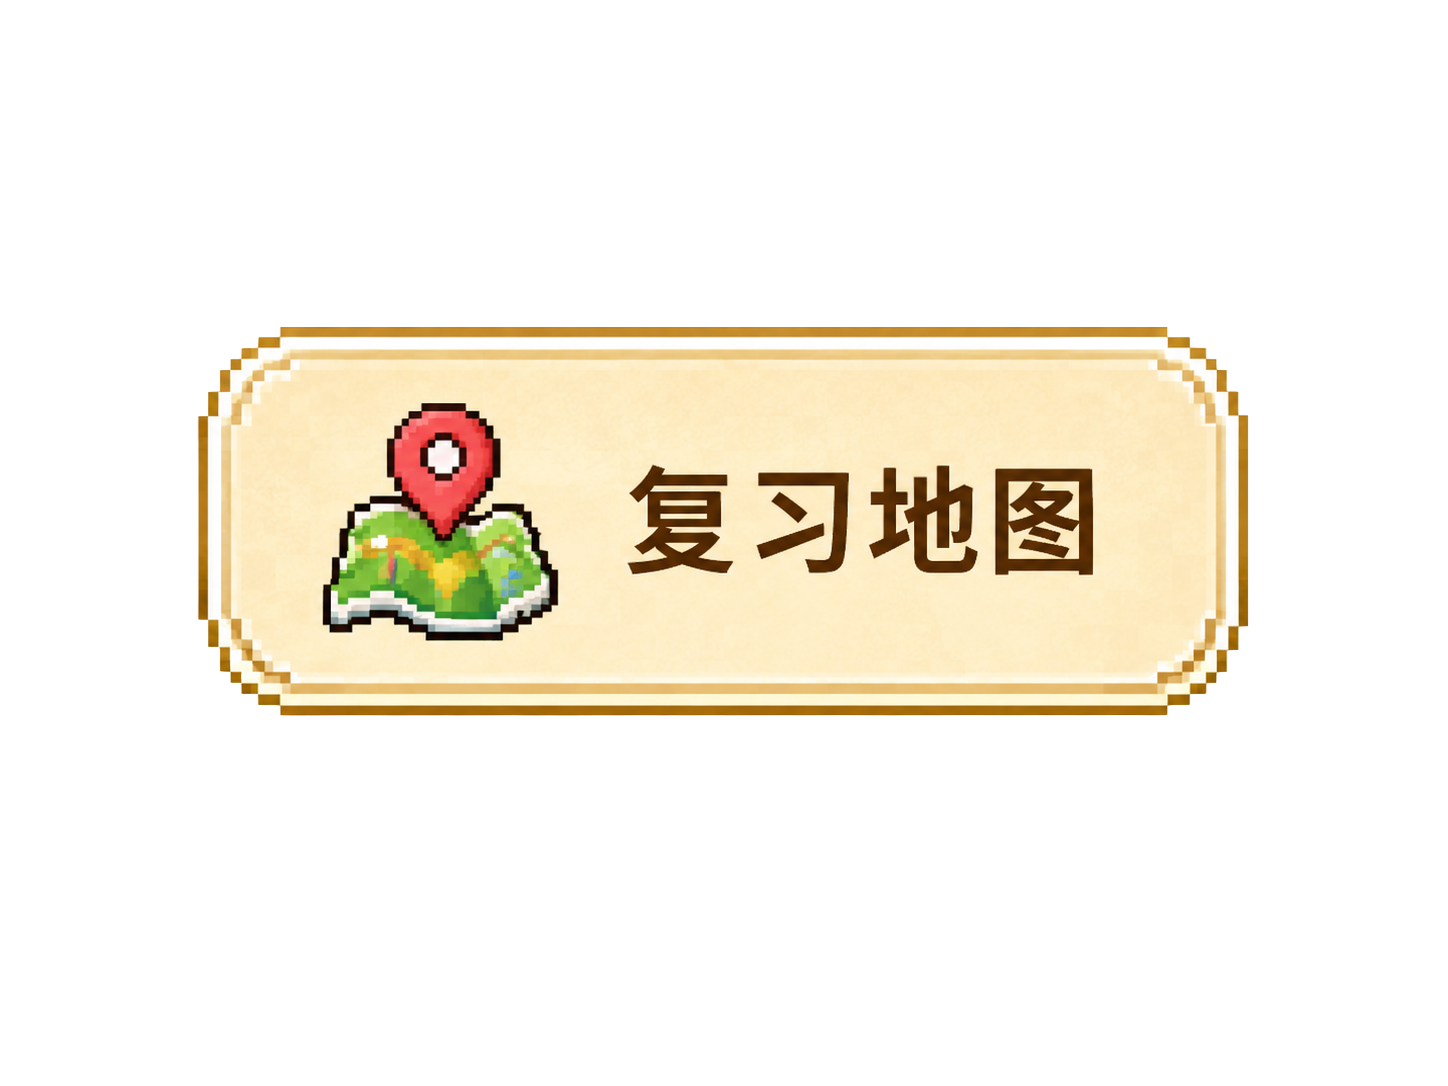
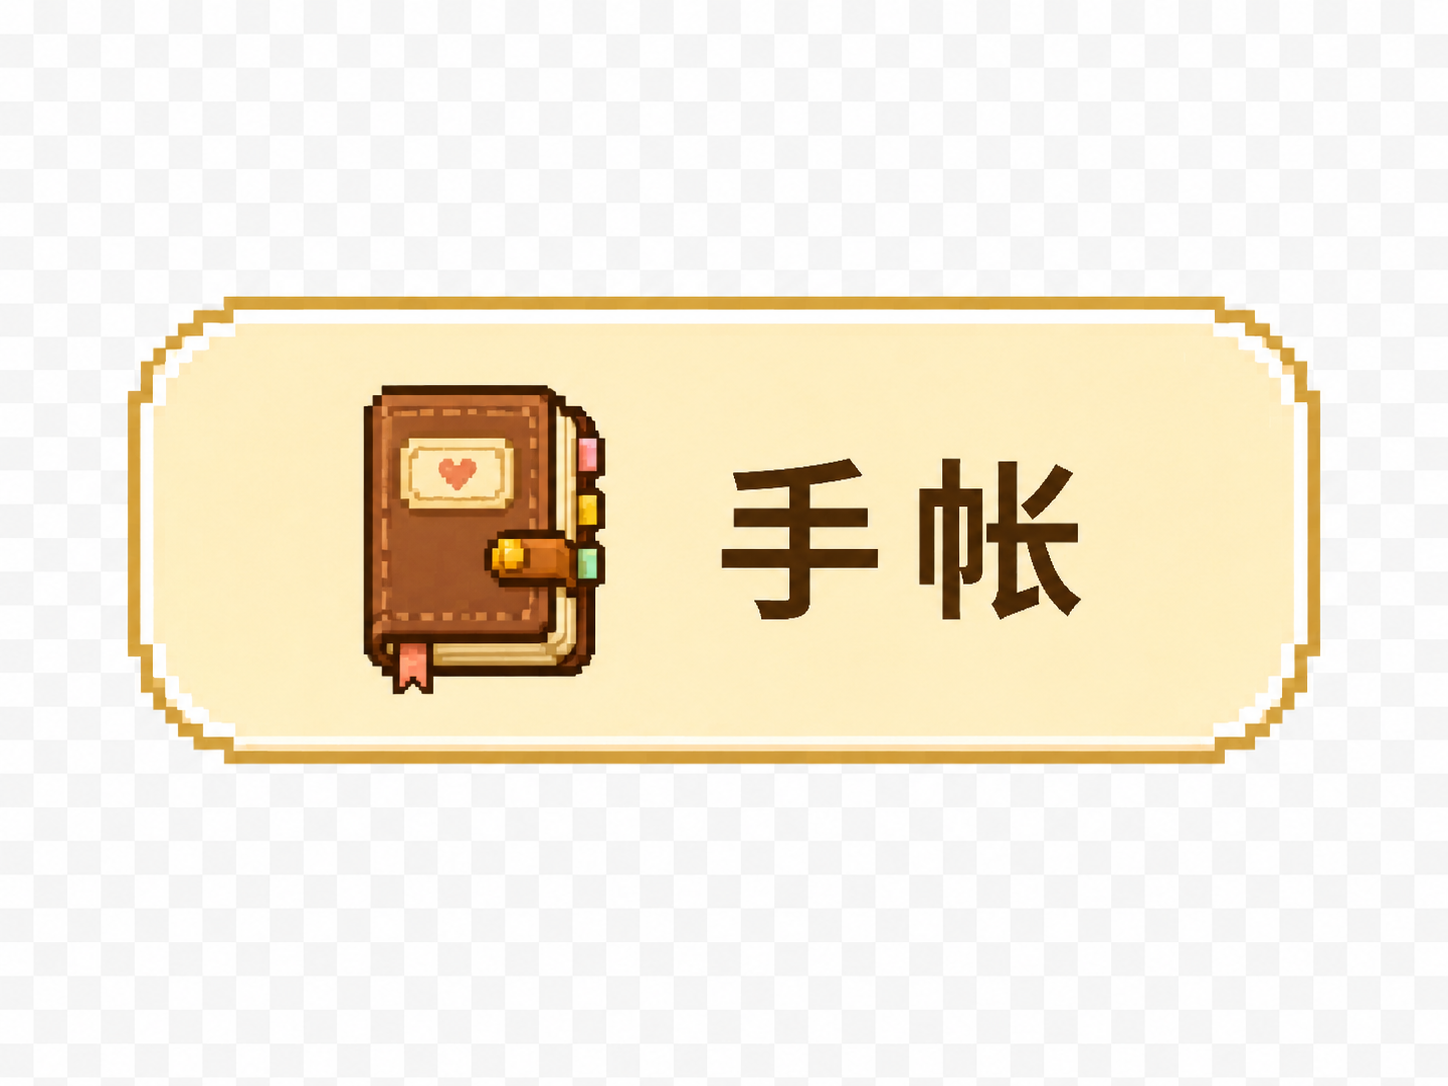
Replace reading mistake and journal navigation art

Changed region(s): [[0.0622, 0.2735, 0.9323, 0.7293]]

diff --git a/app/page.tsx b/app/page.tsx
@@ -493,12 +493,14 @@ function NavButton({
   label,
   onClick,
   art,
+  maskBackground,
 }: {
   active: boolean;
   disabled?: boolean;
   label: string;
   onClick: () => void;
   art: string;
+  maskBackground?: boolean;
 }) {
   return (
     <button
@@ -509,7 +511,7 @@ function NavButton({
       disabled={disabled}
       type="button"
     >
-      <img className="nav-art" src={art} alt="" />
+      <img className={`nav-art ${maskBackground ? "nav-art-masked" : ""}`} src={art} alt="" />
       <span>{label}</span>
     </button>
   );
@@ -1645,11 +1647,11 @@ export default function HomePage() {
 
       <nav className="bottom-nav" aria-label="主要功能">
         <NavButton active={view === "home"} disabled={navigationLocked && !busy && !hideTarget} label="家园" art={`${ASSET}/ui/supplied/nav/home.png`} onClick={() => setView("home")} />
-        <NavButton active={view === "library"} disabled={navigationLocked} label="读书" art={`${ASSET}/ui/supplied/nav/reading.png`} onClick={() => setView("library")} />
-        <NavButton active={view === "mistakes"} disabled={navigationLocked} label="错题屋" art={`${ASSET}/ui/supplied/nav/mistakes.png`} onClick={() => setView("mistakes")} />
+        <NavButton active={view === "library"} disabled={navigationLocked} label="读书" art={`${ASSET}/ui/supplied/nav/reading.png`} maskBackground onClick={() => setView("library")} />
+        <NavButton active={view === "mistakes"} disabled={navigationLocked} label="错题屋" art={`${ASSET}/ui/supplied/nav/mistakes.png`} maskBackground onClick={() => setView("mistakes")} />
         <NavButton active={view === "chat"} disabled={navigationLocked} label="聊天" art={`${ASSET}/ui/supplied/nav/chat.png`} onClick={() => setView("chat")} />
         <NavButton active={view === "travel"} disabled={navigationLocked && !traveling} label="旅行" art={`${ASSET}/ui/supplied/nav/travel.png`} onClick={() => setView("travel")} />
-        <NavButton active={view === "journal"} disabled={navigationLocked} label="手账" art={`${ASSET}/ui/supplied/nav/journal.png`} onClick={() => setView("journal")} />
+        <NavButton active={view === "journal"} disabled={navigationLocked} label="手账" art={`${ASSET}/ui/supplied/nav/journal.png`} maskBackground onClick={() => setView("journal")} />
       </nav>
 
       {toast && <div className={`toast ${view === "chat" ? "chat-toast" : ""}`} role="status"><Sparkles /> {toast}</div>}

diff --git a/app/globals.css b/app/globals.css
@@ -667,6 +667,15 @@ button:disabled {
   width: min(230px, 18vw);
 }
 
+.nav-art-masked {
+  clip-path: polygon(
+    14% 26%, 86% 26%, 86% 28%, 90% 28%, 90% 31%, 93% 31%, 93% 34%, 95% 34%,
+    95% 63%, 93% 63%, 93% 66%, 90% 66%, 90% 69%, 86% 69%, 86% 71%, 14% 71%,
+    14% 69%, 10% 69%, 10% 66%, 7% 66%, 7% 63%, 5% 63%, 5% 34%, 7% 34%,
+    7% 31%, 10% 31%, 10% 28%, 14% 28%
+  );
+}
+
 .nav-button span {
   height: 1px;
   margin: -1px;
